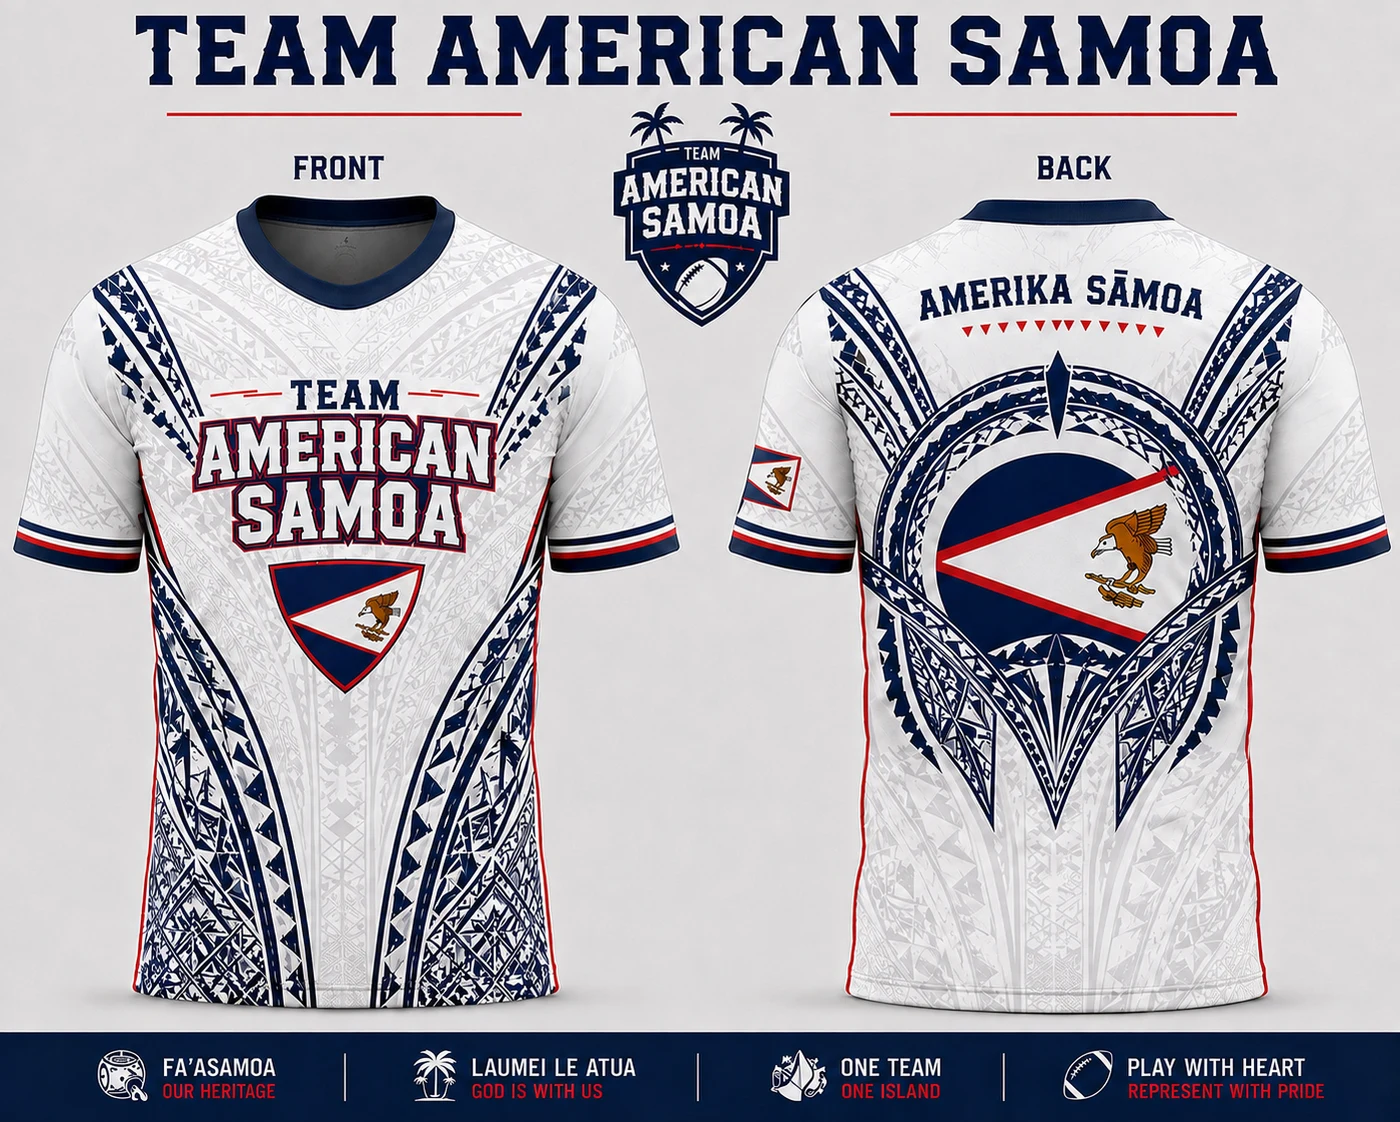
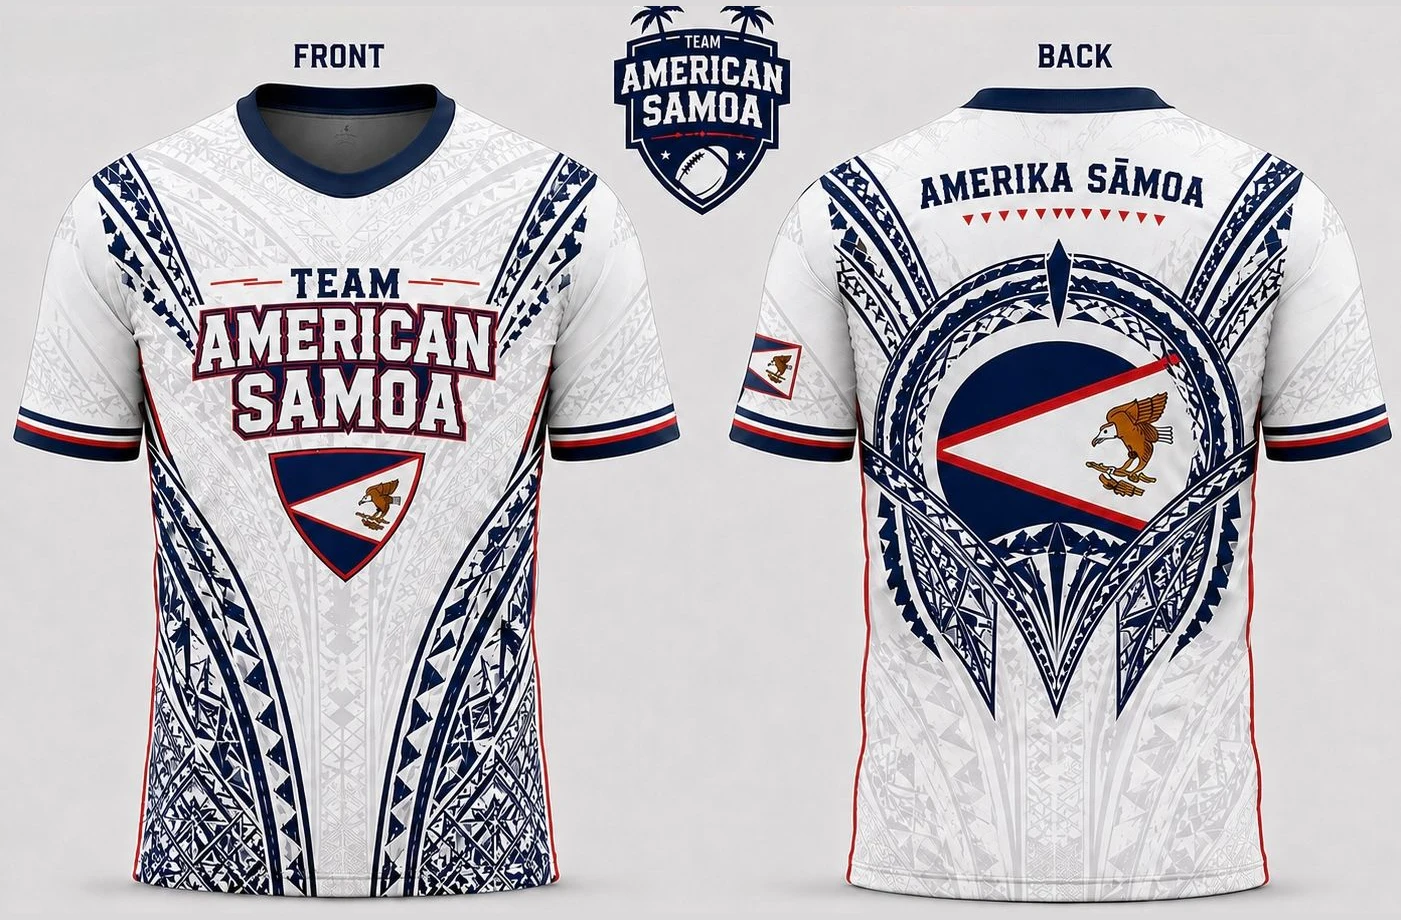
Replace the kit renders, and mark the match-worn jersey
Five kits now instead of four, from cleaner source renders with no watermark
and no values bar cropping the bottom.

THE SIGNATURE JERSEY. The one the squad actually played in at the World
Championship leads everything: full width at the top of the shop lookbook, and
beside the Group A table on the landing page. It carries a "match worn" badge
that no other garment gets, because it is a fact about that shirt and it stops
meaning anything the moment the training tanks wear it too. The badge sits under
the photograph rather than floating on the chest of the render, which is the
drop-shipping-storefront pattern and covers the tatau.

SIZING. The sources came in at five different heights, 882 to 912, which would
have made the grid cards jitter against each other. scripts/kit-images.mjs pads
each onto one 1401x920 canvas using a colour sampled from that image's own
corner, so the seam is invisible and every card is the same shape. It also
trims a stray magenta sliver off the top edge of the white jersey.

Those dimensions were hardcoded in three components at the old 1400x1122, which
would have had Next reserve the wrong box and shift the layout on load. They are
now KIT_W / KIT_H in content.ts, one place, correct everywhere.

LAYOUT. Five items in a two-column grid orphans one in the last row, so the
signature jersey spans both columns and the other four pair off beneath it. The
kit band on the landing page shows the white jersey and the navy tank rather
[…]

diff --git a/lib/content.ts b/lib/content.ts
@@ -106,7 +106,7 @@ export const ROAD: readonly RoadStop[] = [
   {
     date: "October 2025",
     place: "Ningbo, China",
-    title: "IFAF Asia–Oceania Championship",
+    title: "IFAF Asia-Oceania Championship",
     body: "American Samoa travelled to the Fenghua Sports Center for the regional championship. It was the qualifying route to a first world championship.",
   },
   {
@@ -200,34 +200,67 @@ export const HIGHLIGHTS: {
  * is not decoration: somebody who can see the shirt is the person who signs up
  * to buy it, and until now the shop was a page nobody had a reason to open.
  */
+/**
+ * Intrinsic pixel size of every kit render. All five are padded to one canvas
+ * by `scripts/kit-images.mjs`, so a single pair of numbers is correct for all
+ * of them, and Next reserves the right box before the image loads. Re-shoot the
+ * kit and this is the only place the numbers change.
+ */
+export const KIT_W = 1401;
+export const KIT_H = 920;
+
+/*
+  The kit.
+
+  Order matters: the signature match jersey is first, because it is the one the
+  squad actually wore in Düsseldorf and the only one with a claim attached to
+  it. Everything else is training and supporter wear.
+
+  `detail` describes what is on the garment, not how it makes you feel. The
+  photographs show front and back together, so the back copy is worth naming:
+  it is the part a buyer cannot otherwise read.
+*/
 export const KIT = [
+  {
+    id: "jersey-signature",
+    src: "/kit/jersey-signature.webp",
+    name: "Match jersey",
+    detail: "The signature kit. Worn at the 2026 World Championship in Düsseldorf",
+    /** The one garment with a real claim behind it. Do not put this on the others. */
+    signature: true,
+    alt: "The signature Team American Samoa flag football match jersey, front and back. Navy with white tatau panels, the American Samoa flag on the chest and both sleeves, and Amerika Samoa above Unity, Culture, Family across the back.",
+  },
   {
     id: "jersey-navy",
     src: "/kit/jersey-navy.webp",
-    name: "Home jersey",
-    detail: "Navy, full tatau flank, flag on the chest",
-    alt: "Team American Samoa navy jersey, front and back, with Polynesian tatau panels and the American Samoa flag.",
+    name: "Navy jersey",
+    detail: "Navy, white tatau flanks, flag on the chest and both sleeves",
+    signature: false,
+    alt: "Team American Samoa navy jersey, front and back, with white tatau panels and the American Samoa flag roundel across the back.",
   },
   {
     id: "jersey-white",
     src: "/kit/jersey-white.webp",
-    name: "Away jersey",
-    detail: "White, navy tatau, red piping",
-    alt: "Team American Samoa white jersey, front and back, with navy tatau panels and red piping.",
+    name: "White jersey",
+    detail: "White, navy tatau, red piping through the flanks",
+    signature: false,
+    alt: "Team American Samoa white jersey, front and back, with navy tatau panels, red piping and the American Samoa flag roundel across the back.",
   },
   {
     id: "tank-navy",
     src: "/kit/tank-navy.webp",
     name: "Training tank",
     detail: "Navy. Unity, culture, family across the back",
-    alt: "Team American Samoa navy training tank, front and back.",
+    signature: false,
+    alt: "Team American Samoa navy training tank, front and back, with white tatau panels and the flag roundel on the reverse.",
   },
   {
     id: "tank-white",
     src: "/kit/tank-white.webp",
     name: "Training tank",
     detail: "White. Unity, culture, family across the back",
-    alt: "Team American Samoa white training tank, front and back.",
+    signature: false,
+    alt: "Team American Samoa white training tank, front and back, with navy tatau panels and the flag roundel on the reverse.",
   },
 ] as const;
 

diff --git a/app/shop/page.tsx b/app/shop/page.tsx
@@ -1,6 +1,7 @@
 import type { Metadata } from "next";
 import Image from "next/image";
-import { KIT, TEAM } from "@/lib/content";
+import { KIT, KIT_H, KIT_W, TEAM } from "@/lib/content";
+import { SignatureBadge } from "@/components/kit-badge";
 import { SpearRow, TatauField } from "@/components/tatau";
 
 export const metadata: Metadata = {
@@ -48,23 +49,42 @@ export default function ShopPage() {
         <SpearRow className="absolute bottom-0 left-0 h-3 w-full text-red" />
       </section>
 
-      {/* The lookbook. All four kits, large, before anybody is asked to buy. */}
+      {/*
+        The lookbook. Every kit, large, before anybody is asked to buy.
+
+        The signature jersey spans the full width and the rest pair off beneath
+        it. Five items in a two-column grid leaves one orphaned in the last row,
+        and the odd one out reads as an afterthought rather than as the thing
+        the team actually played in.
+      */}
       <section className="bg-bone py-20">
         <div className="mx-auto max-w-7xl px-5 sm:px-8">
           <ul className="grid gap-10 sm:grid-cols-2">
             {KIT.map((item) => (
-              <li key={item.id}>
+              <li key={item.id} className={item.signature ? "sm:col-span-2" : undefined}>
                 <div className="overflow-hidden border border-navy/15 bg-white">
                   <Image
                     src={item.src}
                     alt={item.alt}
-                    width={1400}
-                    height={1122}
-                    sizes="(min-width: 640px) 34rem, 90vw"
+                    width={KIT_W}
+                    height={KIT_H}
+                    sizes={
+                      item.signature
+                        ? "(min-width: 1280px) 76rem, 92vw"
+                        : "(min-width: 640px) 34rem, 90vw"
+                    }
+                    priority={item.signature}
                     className="h-auto w-full"
                   />
                 </div>
-                <p className="display mt-4 text-2xl text-navy-deep">{item.name}</p>
+                {item.signature ? <SignatureBadge className="mt-5" /> : null}
+                <p
+                  className={`display text-navy-deep ${
+                    item.signature ? "mt-3 text-3xl sm:text-4xl" : "mt-4 text-2xl"
+                  }`}
+                >
+                  {item.name}
+                </p>
                 <p className="mt-1 text-sm text-navy/70">{item.detail}</p>
               </li>
             ))}

diff --git a/components/sections.tsx b/components/sections.tsx
@@ -1,8 +1,9 @@
 import Image from "next/image";
 import Link from "next/link";
-import { GROUP_A, KIT, ROAD, ROSTER, TEAM, VALUES, WORLDS } from "@/lib/content";
+import { GROUP_A, KIT, KIT_H, KIT_W, ROAD, ROSTER, TEAM, VALUES, WORLDS } from "@/lib/content";
 import { BandStack, TatauField, TatauRing } from "./tatau";
 import { Reveal } from "./reveal";
+import { SignatureBadge } from "./kit-badge";
 
 /* ------------------------------------------------------------- Düsseldorf -- */
 
@@ -81,15 +82,18 @@ export function WorldsSection() {
                 <Image
                   src={KIT[0].src}
                   alt={KIT[0].alt}
-                  width={1400}
-                  height={1122}
+                  width={KIT_W}
+                  height={KIT_H}
                   sizes="(min-width: 1024px) 34rem, 90vw"
                   className="h-auto w-full transition-transform duration-500 ease-[var(--ease-out-quint)] group-hover:scale-[1.03]"
                 />
               </div>
               <div className="mt-4 flex items-baseline justify-between gap-4">
                 <div>
-                  <p className="display text-2xl text-navy-deep">The kit</p>
+                  <SignatureBadge />
+                  <p className="display mt-2.5 text-2xl text-navy-deep transition-colors group-hover:text-red">
+                    {KIT[0].name}
+                  </p>
                   <p className="mt-1 text-sm text-navy/70">{KIT[0].detail}</p>
                 </div>
                 <span className="display shrink-0 text-sm tracking-[0.14em] text-red">

diff --git a/components/kit.tsx b/components/kit.tsx
@@ -1,6 +1,6 @@
 import Image from "next/image";
 import Link from "next/link";
-import { KIT } from "@/lib/content";
+import { KIT, KIT_H, KIT_W } from "@/lib/content";
 import { BandStack } from "./tatau";
 import { Reveal } from "./reveal";
 
@@ -35,16 +35,22 @@ export function KitSection() {
           </div>
         </Reveal>
 
+        {/*
+          The white jersey and the navy tank, not the next two in the array.
+          The signature jersey sits directly above this band and is navy; a
+          second navy jersey underneath it reads as the same photograph twice.
+          Different colourway, different cut.
+        */}
         <ul className="mt-14 grid gap-8 sm:grid-cols-2">
-          {KIT.slice(1, 3).map((item, i) => (
+          {KIT.slice(2, 4).map((item, i) => (
             <Reveal as="li" key={item.id} delay={i * 90} className="block">
               <Link href="/shop" className="group block">
                 <div className="overflow-hidden border border-navy/15 bg-white">
                   <Image
                     src={item.src}
                     alt={item.alt}
-                    width={1400}
-                    height={1122}
+                    width={KIT_W}
+                    height={KIT_H}
                     sizes="(min-width: 640px) 34rem, 90vw"
                     className="h-auto w-full transition-transform duration-500 ease-[var(--ease-out-quint)] group-hover:scale-[1.03]"
                   />

diff --git a/components/tatau.tsx b/components/tatau.tsx
@@ -38,8 +38,8 @@
   LICENSING, unresolved, and worth settling before launch. The supplied pattern
   images look like stock illustrations. If they were licensed, confirm the
   licence covers commercial web use. If not, the federation's kit supplier
-  already owns finished artwork for these jerseys, that is the better source , 
-  or commission a Samoan designer and credit them by name in the footer.
+  already owns finished artwork for these jerseys, which is the better source.
+  Otherwise commission a Samoan designer and credit them by name in the footer.
   ---------------------------------------------------------------------------
 */
 
@@ -165,7 +165,7 @@ export function BandStack({
  * `currentColor` and one file serves navy, red and bone without three copies.
  *
  * This replaces a hand-drawn approximation. Real artwork carries irregularities
- *, a hand's line weight, motifs that do not tile perfectly, that a generated
+ * (a hand's line weight, motifs that do not tile perfectly) that a generated
  * pattern does not, and those irregularities are most of why it reads as
  * authentic rather than as decoration.
  */

diff --git a/components/hero.tsx b/components/hero.tsx
@@ -23,7 +23,7 @@ export function Hero() {
 
 
       {/* The client's own arc artwork, large and bled off the right edge. When
-          the federation's photography arrives this is the element it replaces , 
+          the federation's photography arrives this is the element it replaces,
           same cell, same bleed, so the type scale will not need redoing. */}
       <TatauArc
         className="pointer-events-none absolute -right-32 top-1/2 hidden h-[130%] w-[62%] -translate-y-1/2 text-bone lg:block"
@@ -101,7 +101,7 @@ export function Hero() {
  * Where the team is, right now.
  *
  * Computed from the fixture dates rather than hardcoded, so it stops saying
- * "live" the moment the tournament ends instead of quietly lying for a year , 
+ * "live" the moment the tournament ends instead of quietly lying for a year,
  * which is the most common way a team site goes stale.
  */
 function LiveBadge() {

diff --git a/components/kit-badge.tsx b/components/kit-badge.tsx
@@ -1,0 +1,21 @@
+/**
+ * The signature marker.
+ *
+ * Only one garment carries it: the jersey the squad actually played in at the
+ * World Championship. That is a fact about the shirt, not a marketing tier, and
+ * it stops meaning anything the moment it appears on the training tanks too.
+ *
+ * Not absolutely positioned over the photograph. A badge floating on the chest
+ * of the render is the pattern every drop-shipping storefront uses, and it
+ * covers the tatau, which is the part worth looking at.
+ */
+export function SignatureBadge({ className = "" }: { className?: string }) {
+  return (
+    <span
+      className={`display inline-flex items-center gap-2 border border-red/40 bg-red/10 px-3 py-1 text-xs tracking-[0.16em] text-red ${className}`}
+    >
+      <span aria-hidden className="size-1.5 shrink-0 rounded-full bg-red" />
+      Match worn
+    </span>
+  );
+}

diff --git a/components/reveal.tsx b/components/reveal.tsx
@@ -6,7 +6,7 @@ import { useEffect, useRef, type ReactNode } from "react";
  * Reveals its children once they scroll into view.
  *
  * The hidden state lives in CSS behind a `.js` class rather than in inline
- * styles, so a browser without JavaScript, or one where a script failed , 
+ * styles, so a browser without JavaScript, or one where a script failed,
  * shows the content instead of an empty page. See globals.css.
  *
  * One observer per element and it disconnects after firing: this runs on every

diff --git a/app/globals.css b/app/globals.css
@@ -111,7 +111,7 @@ body {
 /*
   Reveal-on-scroll, done so the site still works without JavaScript.
 
-  The obvious implementation, a motion library with `initial={{opacity: 0}}` , 
+  The obvious implementation, a motion library with `initial={{opacity: 0}}`,
   renders `opacity: 0` into the server HTML and only recovers on hydration. Turn
   JavaScript off, or let one script fail, and the page is blank. That was true
   of this page: the hero headline itself did not render.

diff --git a/app/page.tsx b/app/page.tsx
@@ -1,7 +1,7 @@
 /*
   Revalidated hourly so the hero's "Competing now" badge is computed against a
   recent clock. It reads the fixture dates in a Server Component, so on a purely
-  static build the label freezes at whatever it was when the site was deployed , 
+  static build the label freezes at whatever it was when the site was deployed,
   which is exactly the stale-team-site failure the badge exists to avoid.
 */
 export const revalidate = 3600;

diff --git a/components/site-header.tsx b/components/site-header.tsx
@@ -68,7 +68,7 @@ export function SiteHeader() {
           ))}
 
           {/* The two places the team actually publishes. Icon-only is fine
-              here, the labelled buttons live in the section and the footer , 
+              here, the labelled buttons live in the section and the footer,
               but each still carries an accessible name. */}
           <span className="h-5 w-px bg-bone/25" />
           <a
